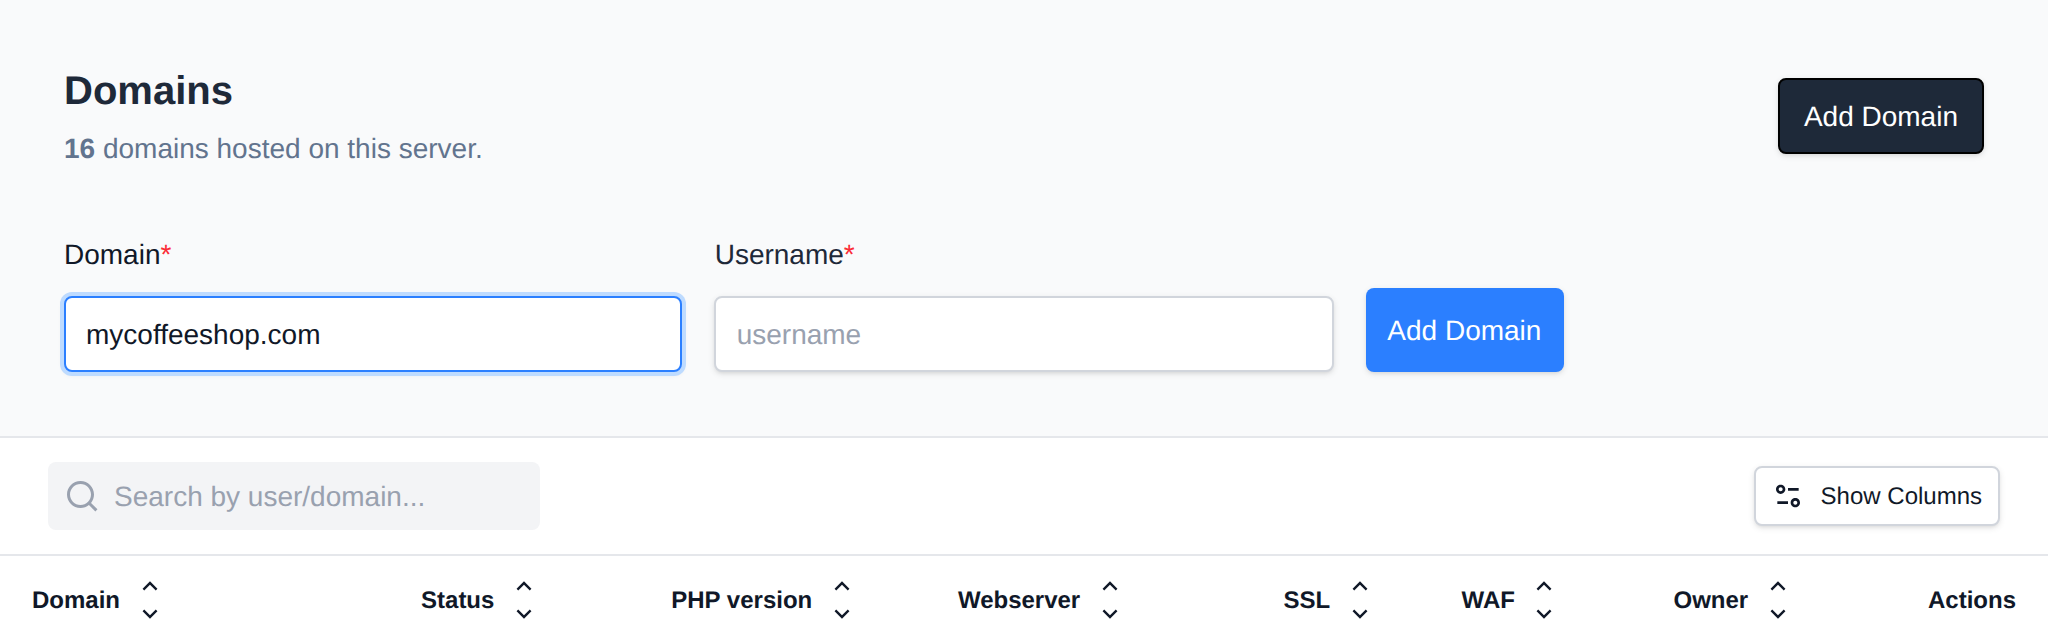
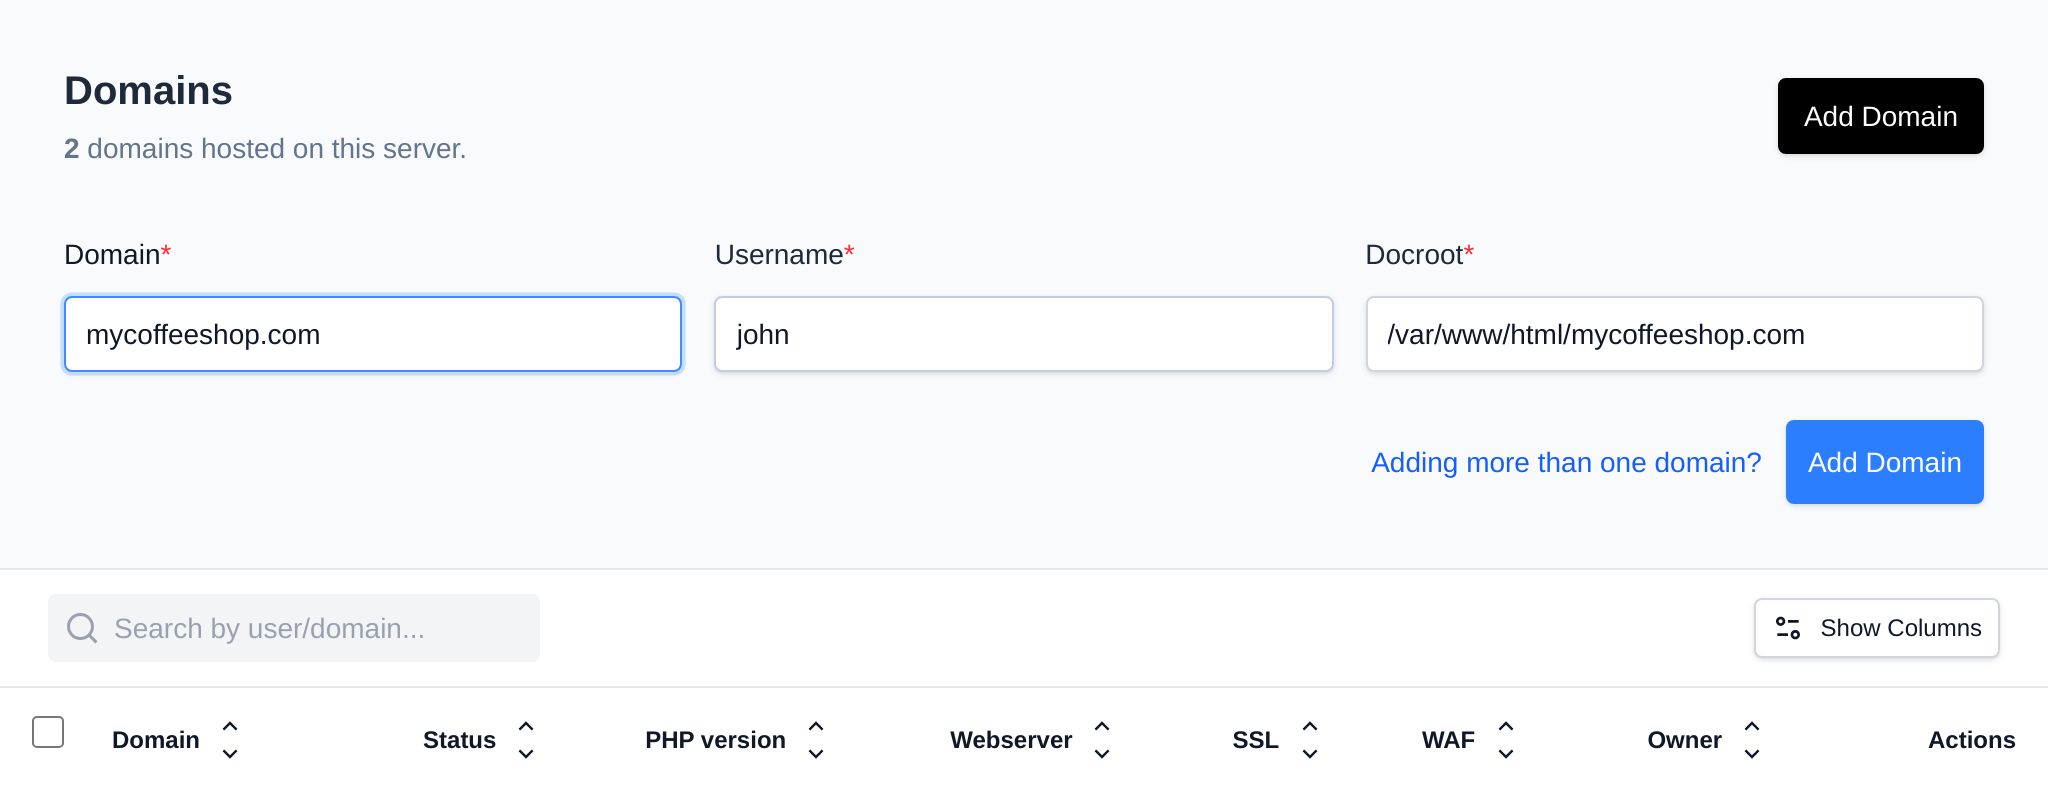
added docs for bulk domain add on openadmin

diff --git a/website/docs/admin/domains/domains.md b/website/docs/admin/domains/domains.md
@@ -100,8 +100,8 @@ Click an action, confirm it, and it runs on the selected domains one after anoth
 
   With an **Enterprise** license the form also has a **Docroot** field next to the username. It starts as `/var/www/html/` and fills in `/var/www/html/<domain>` as you type the domain, so you only need to change it for a custom folder, for example `/var/www/html/shop/public`. The docroot must start with `/var/www/html/`, can only contain letters, numbers, dots, dashes, underscores and slashes, and can't contain `..`. On Community edition the docroot is always `/var/www/html/<domain>`.
 
-![Add Domain form with the domain name and the user to add it to](/img/openadmin-screenshots/domains/domains-add.png#gh-light-mode-only)
-![Add Domain form with the domain name and the user to add it to](/img/openadmin-screenshots/domains/domains-add_dark.png#gh-dark-mode-only)
+![Add Domain form with the domain name, the user to add it to and the docroot](/img/openadmin-screenshots/domains/domains-add.png#gh-light-mode-only)
+![Add Domain form with the domain name, the user to add it to and the docroot](/img/openadmin-screenshots/domains/domains-add_dark.png#gh-dark-mode-only)
 
 
   </TabItem>
@@ -141,6 +141,36 @@ Domain pejcci.rs added successfully
 ```
   </TabItem>
 </Tabs>
+
+## Bulk add domains
+
+To add several domains at once, click on 'Add Domain' and then on **Adding more than one domain?** next to the submit button. The form turns into a text area where you enter one domain per line:
+
+```
+<DOMAIN>|<USERNAME>|<DOCROOT>|<PHP_VERSION>
+```
+
+The docroot and PHP version are optional, and spaces can be used instead of `|`. For example:
+
+```
+mycoffeeshop.com|john
+bakery.rs|john|/var/www/html/bakery/public
+blog.bakery.rs|john|/var/www/html/bakery/blog|8.3
+teashop.net stefan 8.4
+```
+
+- A docroot starts with `/` and a PHP version looks like `8.3`, so you can leave out either one, for example `domain.com|john|8.3`.
+- A custom docroot requires an **Enterprise** license, with the same rules as the single [Add domain](#add-domain) form. Without a docroot the domain uses `/var/www/html/<DOMAIN>`.
+- Empty lines and lines starting with `#` are skipped. Up to 500 domains can be added at once.
+
+![Bulk add domains form with one domain per line](/img/openadmin-screenshots/domains/domains-bulk-add.png#gh-light-mode-only)
+![Bulk add domains form with one domain per line](/img/openadmin-screenshots/domains/domains-bulk-add_dark.png#gh-dark-mode-only)
+
+The list is checked when you leave the text area and again on the server before anything is added: every line with a problem is listed with its line number, along with users that don't exist or are suspended, and domains that appear twice. If any line is wrong, no domains are added.
+
+When the list is valid, the domains are added one after another and the form shows the progress. When all of them are added the page reloads. If some fail (for example because the domain already exists on the server), the form lists each failed line with the error and the rest are still added.
+
+Click **Adding just one domain?** to go back to the single domain form.
 
 ## Domain actions
 
